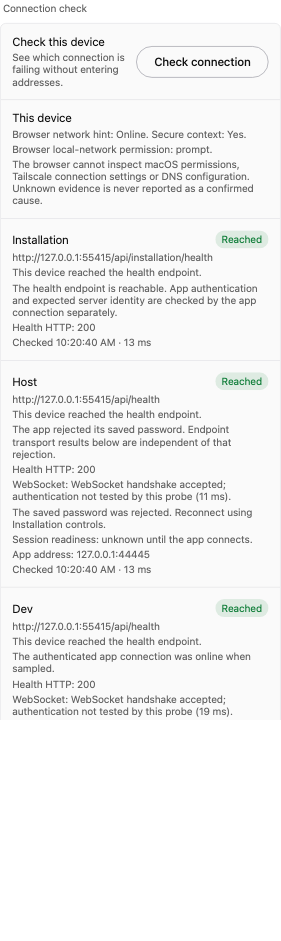
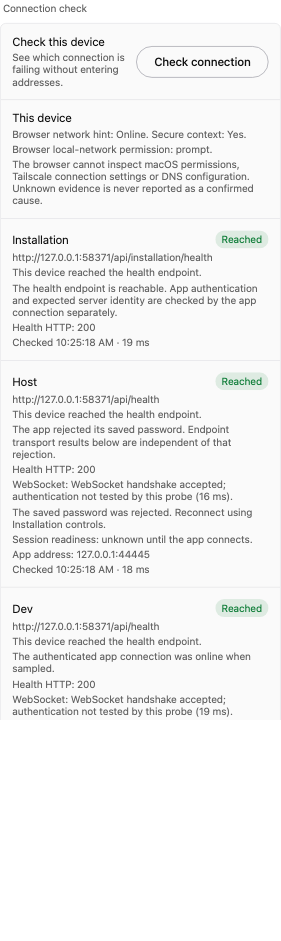
Add Voice as its own Settings section
Upstream's Voice page had no place in Settings. It becomes a top-level Voice section
after Agents, as the owner chose, using the Host's daemon like the other host-backed
panes. Search finds dictation, voice mode and the speech models.

diff --git a/packages/app/src/settings-catalog/catalog.ts b/packages/app/src/settings-catalog/catalog.ts
@@ -18,6 +18,7 @@ export const SETTINGS_SECTION_IDS = [
   "general",
   "providers",
   "agents",
+  "voice",
   "environments",
   "projects",
   "system",
@@ -134,17 +135,14 @@ export const SETTINGS_SECTIONS: readonly SettingsSectionDefinition[] = [
     id: "agents",
     group: "Vorteo",
     label: "Agents",
-    keywords: [
-      "tools",
-      "skills",
-      "system",
-      "prompt",
-      "metadata",
-      "browser",
-      "terminal",
-      "hooks",
-      "voice",
-    ],
+    keywords: ["tools", "skills", "system", "prompt", "metadata", "browser", "terminal", "hooks"],
+  },
+  {
+    // Its own section by the owner's choice: speech input and output, configured on the Host.
+    id: "voice",
+    group: "Vorteo",
+    label: "Voice",
+    keywords: ["voice", "dictation", "speech", "transcription", "speaking", "listening", "tts"],
   },
   {
     id: "environments",
@@ -327,7 +325,13 @@ export const SETTINGS_PANES: readonly SettingsPaneDefinition[] = [
     legacySlugs: ["agents.skills", "skills"],
   },
   {
-    // Voice will be inserted after the Skills library when approved.
+    id: "voice.voice",
+    section: "voice",
+    label: "Voice",
+    legacySlugs: ["voice.voice", "voice"],
+    requiresHost: true,
+  },
+  {
     id: "agents.metadata",
     section: "agents",
     label: "Metadata generation",
@@ -653,6 +657,39 @@ export const SETTINGS_ENTRIES: readonly SettingsEntryDefinition[] = [
     pane: "agents.skills",
     label: "Orchestration skills",
     keywords: ["skill library"],
+    scope: environment,
+  },
+  {
+    id: "voice.voice.dictation",
+    pane: "voice.voice",
+    label: "Dictation",
+    labelKey: "settings.voice.dictation.enabled",
+    hint: "Speak into the message box instead of typing.",
+    keywords: ["dictate", "speech to text", "microphone"],
+    scope: environment,
+  },
+  {
+    id: "voice.voice.mode",
+    pane: "voice.voice",
+    label: "Voice mode",
+    labelKey: "settings.voice.voiceMode.enabled",
+    hint: "Talk with your agents hands-free.",
+    keywords: ["hands-free", "read aloud", "conversation"],
+    scope: environment,
+  },
+  {
+    id: "voice.voice.models",
+    pane: "voice.voice",
+    label: "Speech models",
+    keywords: [
+      "speech-to-text",
+      "listening",
+      "speaking",
+      "whisper",
+      "openai",
+      "local model",
+      "download",
+    ],
     scope: environment,
   },
   {

diff --git a/packages/app/src/screens/settings-screen.tsx b/packages/app/src/screens/settings-screen.tsx
@@ -36,6 +36,7 @@ import {
   Plus,
   FolderGit2,
   Sparkles,
+  Mic,
   Wrench,
   ChevronRight,
   ExternalLink,
@@ -43,6 +44,7 @@ import {
 import { DropdownTrigger } from "@/components/ui/dropdown-trigger";
 import { SettingsSection } from "@/components/settings/headings/settings-section";
 import { AppearanceSection } from "@/screens/settings/appearance/appearance-section";
+import { HostVoicePage } from "@/screens/settings/voice/voice-page";
 import { OpenLocationSection } from "@/screens/settings/open-location/open-location-section";
 import { TerminalSection } from "@/screens/settings/terminal/terminal-section";
 import { ChatSection } from "@/screens/settings/chat/chat-section";
@@ -138,6 +140,7 @@ const SECTION_ICONS: Record<SettingsSectionId, IconComponent> = {
   general: Settings,
   providers: Bot,
   agents: Sparkles,
+  voice: Mic,
   environments: Server,
   projects: FolderGit2,
   system: Wrench,
@@ -881,6 +884,18 @@ interface PaneContext {
 
 type InstallationPaneSection = Parameters<typeof InstallationSettingsContent>[0]["section"];
 
+/**
+ * Voice settings live on the Host daemon: the installation's Host when there is one,
+ * otherwise the first saved host, the same rule the other host-backed panes use.
+ */
+function VoicePane() {
+  const hosts = useHosts();
+  const installation = readExecutionInstallation();
+  const authority = installation?.environments.find((environment) => environment.kind === "host");
+  const serverId = authority?.serverId ?? hosts[0]?.serverId;
+  return serverId ? <HostVoicePage serverId={serverId} /> : null;
+}
+
 function installationPane(section: InstallationPaneSection) {
   return (context: PaneContext) => (
     <InstallationSettingsContent section={section} onAddHost={context.onAddHost} />
@@ -900,6 +915,7 @@ const PANE_RENDERERS: Record<string, (context: PaneContext) => ReactNode> = {
   "accounts.usage": installationPane("usage"),
   "agents.tools": installationPane("agents"),
   "agents.skills": () => <SkillLibraryContent />,
+  "voice.voice": () => <VoicePane />,
   "agents.metadata": installationPane("metadata"),
   "agents.browserData": () => <BrowserDataSection />,
   "agents.permissions": () => <DesktopPermissionsSection />,

diff --git a/packages/app/src/settings-catalog/catalog.test.ts b/packages/app/src/settings-catalog/catalog.test.ts
@@ -163,13 +163,14 @@ it("offers keyboard shortcuts for hardware keyboards independently of Electron",
   expect(isAvailable(pane, { ...context, hardwareKeyboardPresent: true })).toBe(true);
 });
 
-it("groups the eight sections by scope and preserves renamed section links", () => {
+it("groups the nine sections by scope and preserves renamed section links", () => {
   expect(SETTINGS_SECTIONS.map(({ label, group }) => [group, label])).toEqual([
     ["This device", "Interface"],
     ["This device", "Notifications & privacy"],
     ["Vorteo", "General"],
     ["Vorteo", "Providers"],
     ["Vorteo", "Agents"],
+    ["Vorteo", "Voice"],
     ["Vorteo", "Environments"],
     ["Vorteo", "Projects & integrations"],
     ["Vorteo", "System"],
@@ -191,6 +192,8 @@ it("groups the eight sections by scope and preserves renamed section links", () 
     pane: "appearance.appearance",
   });
   expect(getPane("privacy.dataSaver")?.section).toBe("privacy");
+  // Upstream's per-host voice links land on the top-level Voice section.
+  expect(resolveSettingsTarget("voice")).toEqual({ section: "voice", pane: null });
   expect(
     SETTINGS_ENTRIES.filter((entry) => entry.label === "Default profile").every(
       (entry) => entry.pane === "workspaces.newWorkspace",

diff --git a/packages/app/src/utils/host-routes.ts b/packages/app/src/utils/host-routes.ts
@@ -499,6 +499,7 @@ export const SETTINGS_SECTION_SLUGS = [
   "interface",
   "privacy",
   "system",
+  "voice",
   "general",
   "accounts",
   "maintenance",

diff --git a/VORTEO_CHANGELOG.md b/VORTEO_CHANGELOG.md
@@ -16,6 +16,7 @@ The initial baseline is cumulative; older entries do not cover every maintenance
 
 - Consolidate Host and Dev status, confirmed restart reviews, updates and maintenance details into a System pane with one attention notice. Remove duplicate Host controls and Skills editor, center composer profile edits, preserve reviewed shared-profile revisions, and disable repeated update actions while a request is running.
 - Consolidate Host and Dev status, confirmed restart reviews, updates and maintenance details into a System pane with one attention notice. Remove duplicate Host controls and Skills editor, center composer profile edits, and preserve reviewed shared-profile revisions.
+- Voice is its own Settings section, after Agents: dictation, voice mode and the speech models for listening and speaking, configured on the Host. Search finds each of them.
 - Settings opens the System section on its System page: Host and Dev status with one action each, restarts, updates, the release channel and the connection check. The separate update pages and the duplicate app update row in About are gone, and old links to them open System.
 - Keep Retry for failed account choices and offer a separate Provider settings link, keep provider and metadata settings steady through loading and reconnects, and report install and save failures with toasts. Update packaged provider tests for grouped installation rows and ordering.
 
